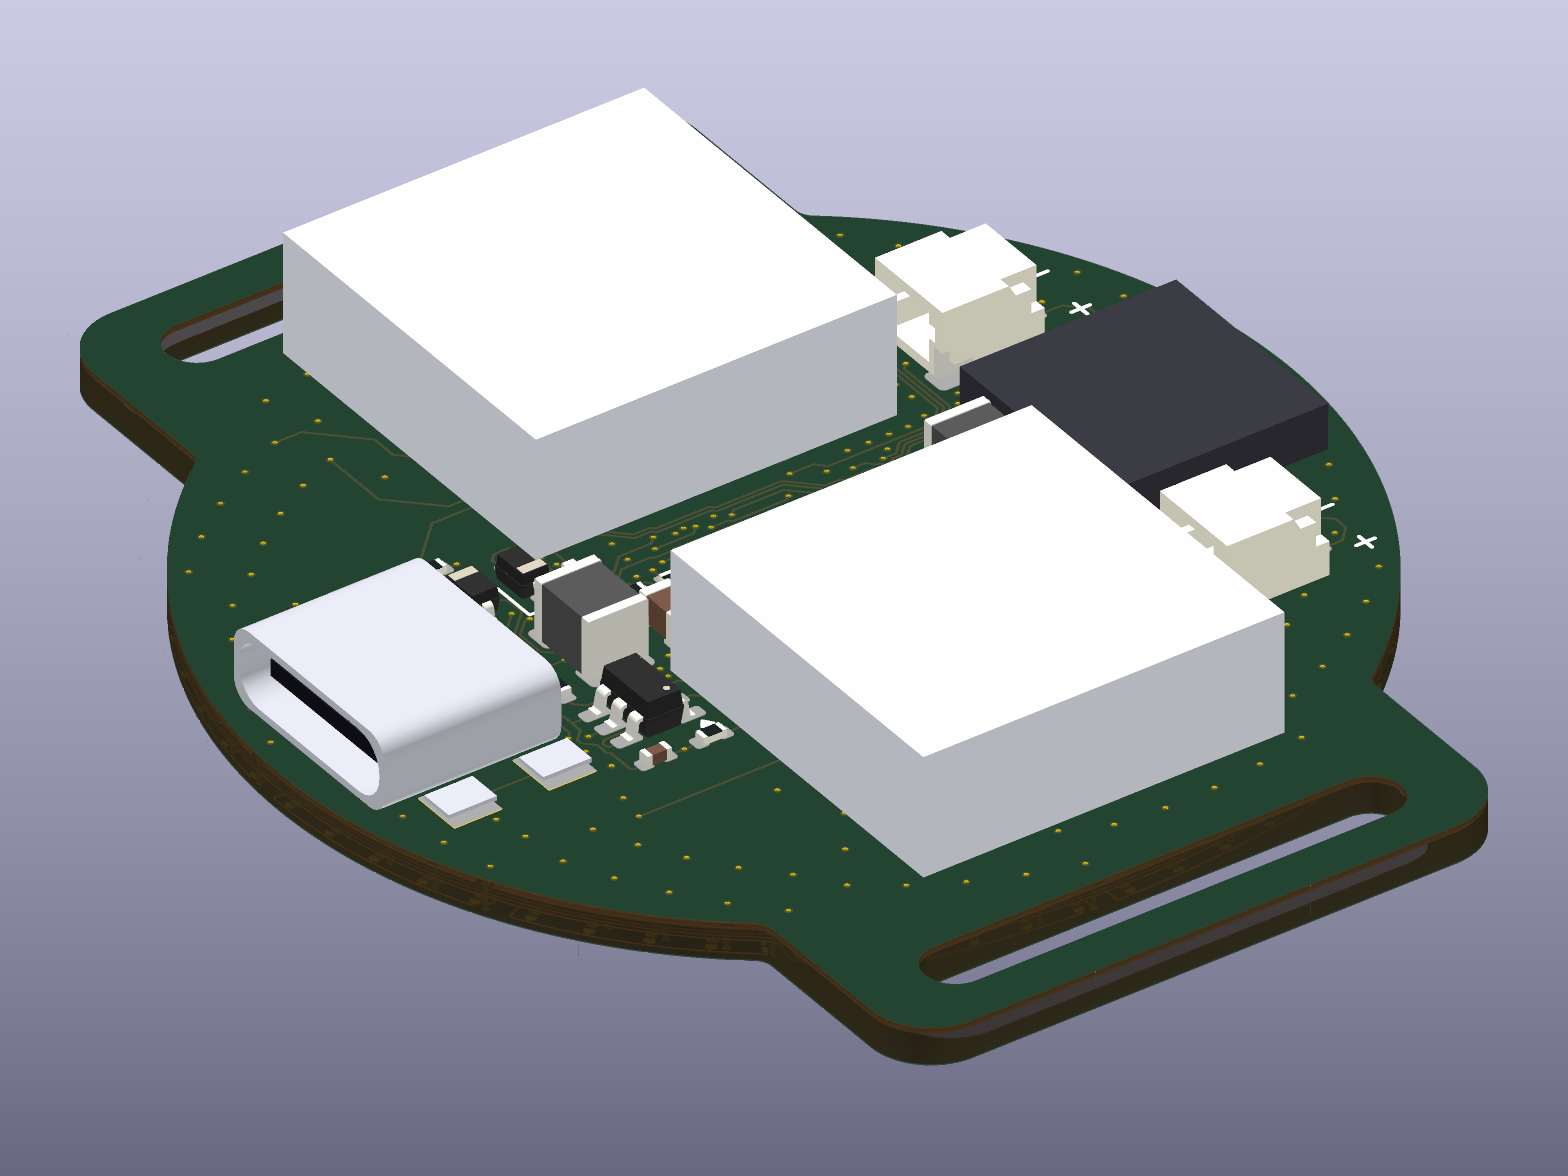
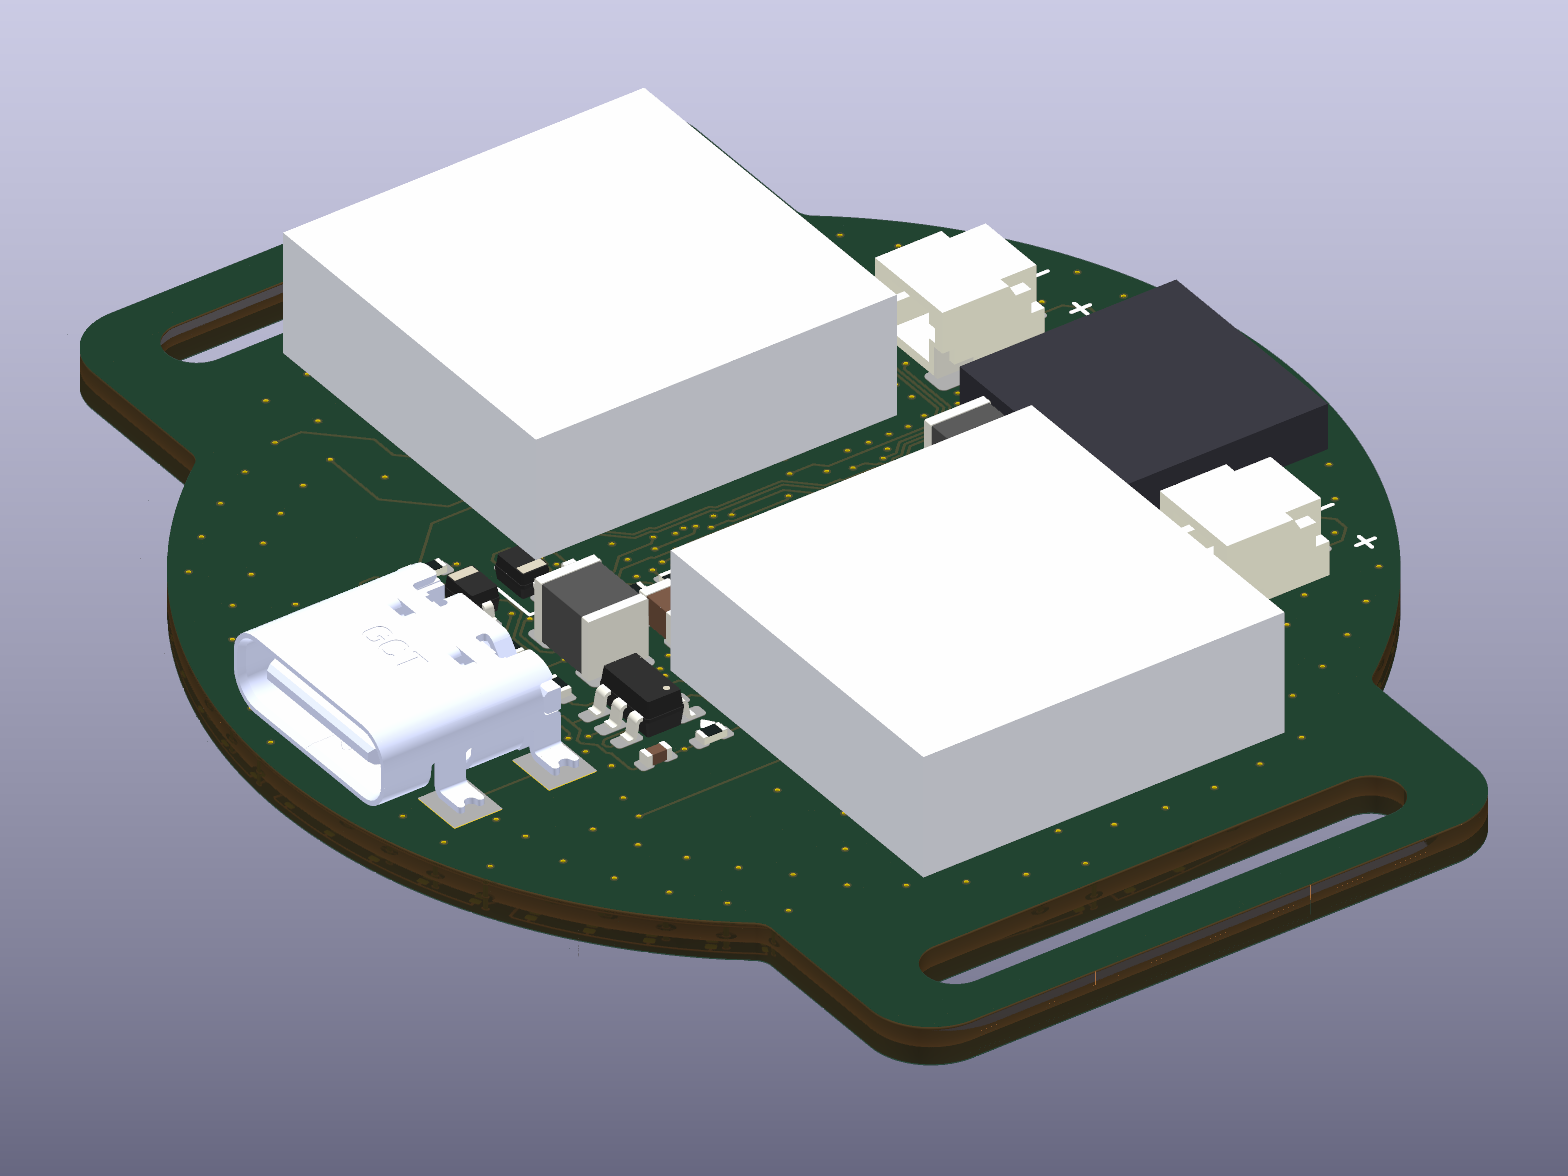
single-color: J2 uses GCT's own 3D model (aligned by tools/align_gct_step.py, file not committed), 3D pictures refreshed

diff --git a/single-color/tools/apply_models.py b/single-color/tools/apply_models.py
@@ -1,5 +1,5 @@
 """apply_models.py IN.kicad_pcb OUT.kicad_pcb [--lib hardware/footprints/LEDWatch.pretty] : 3D models for the parts that had none or a missing file (KiCad python, idempotent).
-  J2  USB-C        ${KIPRJMOD}/3dmodels/usbc_gct_usb4110.step   (the stock KiCad file is not shipped with KiCad 10)
+  J2  USB-C        ${KIPRJMOD}/3dmodels/usbc_gct_usb4110_aligned.step   (GCT's own model, aligned by align_gct_step.py; usbc_gct_usb4110.step is the fallback built from the drawing)
   U1  MCU          ${KIPRJMOD}/3dmodels/qfn48_6x6_ep4p2.step    (same reason)
   U4  BQ25570      stock Texas VQFN-RGR-20 3.5 x 3.5 mm model
   BZ1 piezo        ${KIPRJMOD}/3dmodels/piezo_pkmcs0909.step
@@ -14,7 +14,7 @@ def model(path, z=0.0):
     m = pcbnew.FP_3DMODEL(); m.m_Filename = path; m.m_Offset = pcbnew.VECTOR3D(0, 0, z); m.m_Scale = pcbnew.VECTOR3D(1, 1, 1); m.m_Rotation = pcbnew.VECTOR3D(0, 0, 0); m.m_Show = True; m.m_Opacity = 1.0; return m
 def setmodel(fp, path, z=0.0):
     fp.Models().clear(); fp.Models().push_back(model(path, z))
-for ref, path in (("J2", PRJ + "usbc_gct_usb4110.step"), ("U1", PRJ + "qfn48_6x6_ep4p2.step"), ("BZ1", PRJ + "piezo_pkmcs0909.step"),
+for ref, path in (("J2", PRJ + "usbc_gct_usb4110_aligned.step"), ("U1", PRJ + "qfn48_6x6_ep4p2.step"), ("BZ1", PRJ + "piezo_pkmcs0909.step"),
                   ("U4", STOCK + "Package_DFN_QFN.3dshapes/Texas_VQFN-RGR-20-1EP_3.5x3.5mm_Pitch0.5mm.step")):
     setmodel(b.FindFootprintByReference(ref), path); print("model set on", ref)
 for f in list(b.GetFootprints()):

diff --git a/single-color/tools/align_gct_step.py b/single-color/tools/align_gct_step.py
@@ -1,0 +1,8 @@
+"""align_gct_step.py IN.STEP OUT.step : put GCT's own USB4110-GF-A STEP model (downloaded by hand, e.g. from SnapMagic / DigiKey) into KiCad's model frame for the project's J2 footprint.
+GCT frame: x = width, y = height above the board (0 .. 3.26), z = depth (pegs at z = 0, opening towards +z).  KiCad frame for this footprint: x = width, y = -footprint y, z = up; the opening at y = -3.675,
+the pegs at y = +2.605.  So: rotate 90 degrees about X (y' = -z, z' = y), then move +2.605 in y.  Check: the front face lands on y = -3.675 (the footprint's body outline).  Needs build123d."""
+import sys, os
+if os.environ.get("PYLIB"): sys.path.insert(0, os.environ["PYLIB"])
+from build123d import import_step, export_step, Axis, Pos
+s = Pos(0, 2.605, 0) * import_step(sys.argv[1]).rotate(Axis.X, 90); bb = s.bounding_box()
+print("bbox x %.3f..%.3f  y %.3f..%.3f  z %.3f..%.3f" % (bb.min.X, bb.max.X, bb.min.Y, bb.max.Y, bb.min.Z, bb.max.Z)); export_step(s, sys.argv[2])

diff --git a/single-color/docs/DECISION-LOG.md b/single-color/docs/DECISION-LOG.md
@@ -620,3 +620,4 @@ Files changed: schematic/gen_schematic.py (+ regenerated watch_solar.kicad_sch, 
 - **Inner layers swapped:** In1 content (452 pieces) moved to In2, the GND zone from In2 to In1, zones refilled; DRC 0 / 0, joints and keep-out clean. Overlap measurement before the swap: 9.6 mm of critical back-side copper next to In1 copper within 0.3 mm (OK_PROG 2.4 mm, VBAT_OV 0.7 mm are the high-impedance ones). `zonespec.py` and `composite.py` follow the new layer names; the crystal keep-out is the front layer only.
 - **3D models** (`tools/make_models.py`, `tools/apply_models.py`): J2, U1, BZ1 own models; U4 stock Texas VQFN-RGR-20; MECH1 (cell 23 x 8 x 1.2 mm), MECH2 / MECH3 (LiPo 15 x 15 x 5 mm, bottom 1.1 mm above the board). DRC unchanged, parity unchanged (board-only footprints).
 - **Production** regenerated (In1 / In2 / B.Cu / F.Cu / drill changed; CPL unchanged).
+- **Real USB-C model (2026-11-05 night):** GCT's own STEP (USB4110-GF-A rev B, downloaded by the owner from a distributor) is on J2. It is in SolidWorks' frame (y up, depth along z), so `tools/align_gct_step.py` rotates it 90 degrees about X and moves it 2.605 mm in y; the front face then lands exactly on the footprint's body outline (y = -3.675), the pegs on the footprint's pegs, the tails on the shell pads, the contact tails on the 12 pads. Overall 11.3 x 7.7 x 3.9 mm (the data sheet's 8.94 shell plus tails). The board edge is 1.2-1.3 mm in front of the receptacle face (picture `3d-usbc-closeup.png`). The file is GCT's, so it is NOT committed (`.gitignore`): `usbc_gct_usb4110_gct.step` (raw) and `usbc_gct_usb4110_aligned.step`; the committed `usbc_gct_usb4110.step` is the model built from the drawing and can be pointed to instead.
